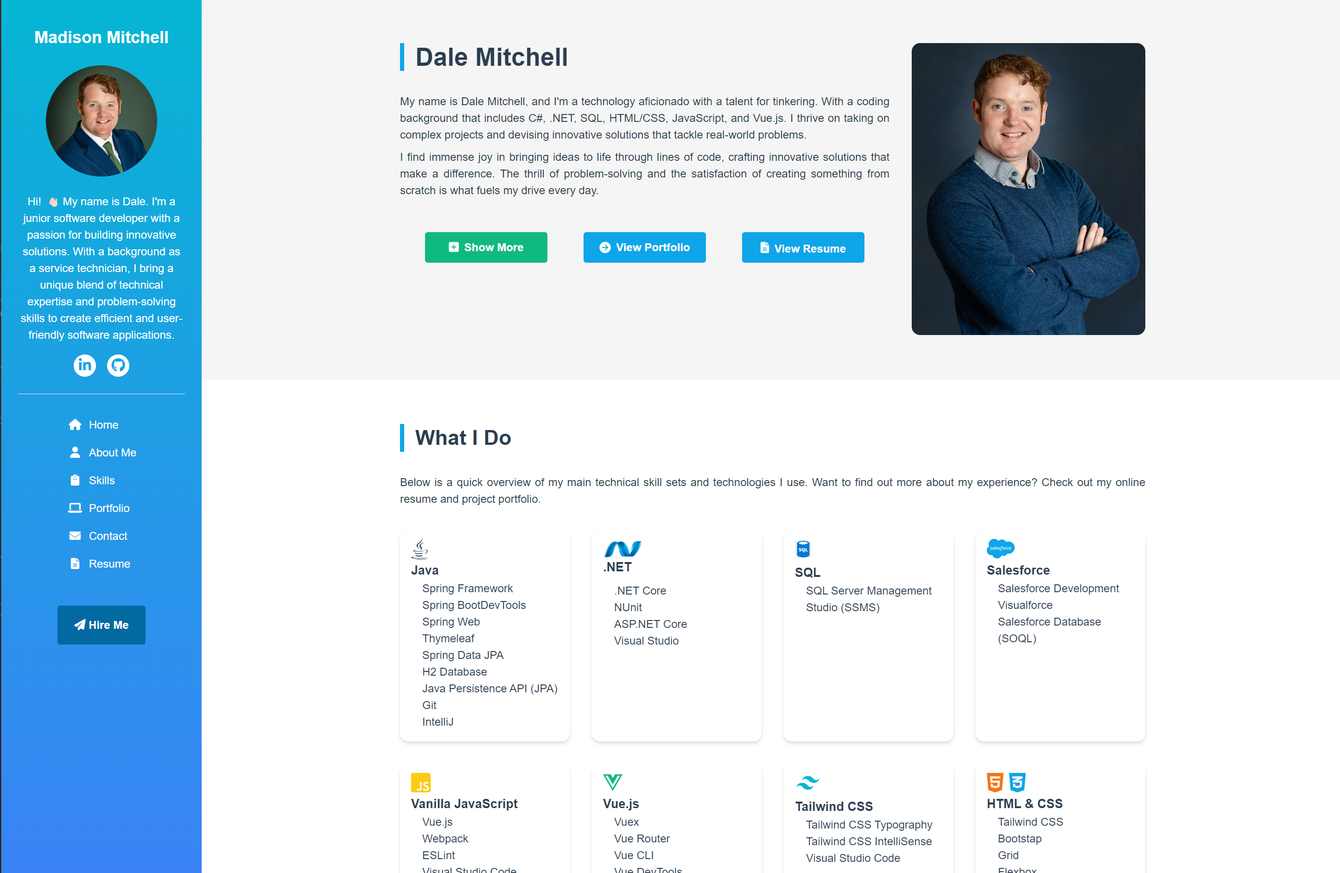
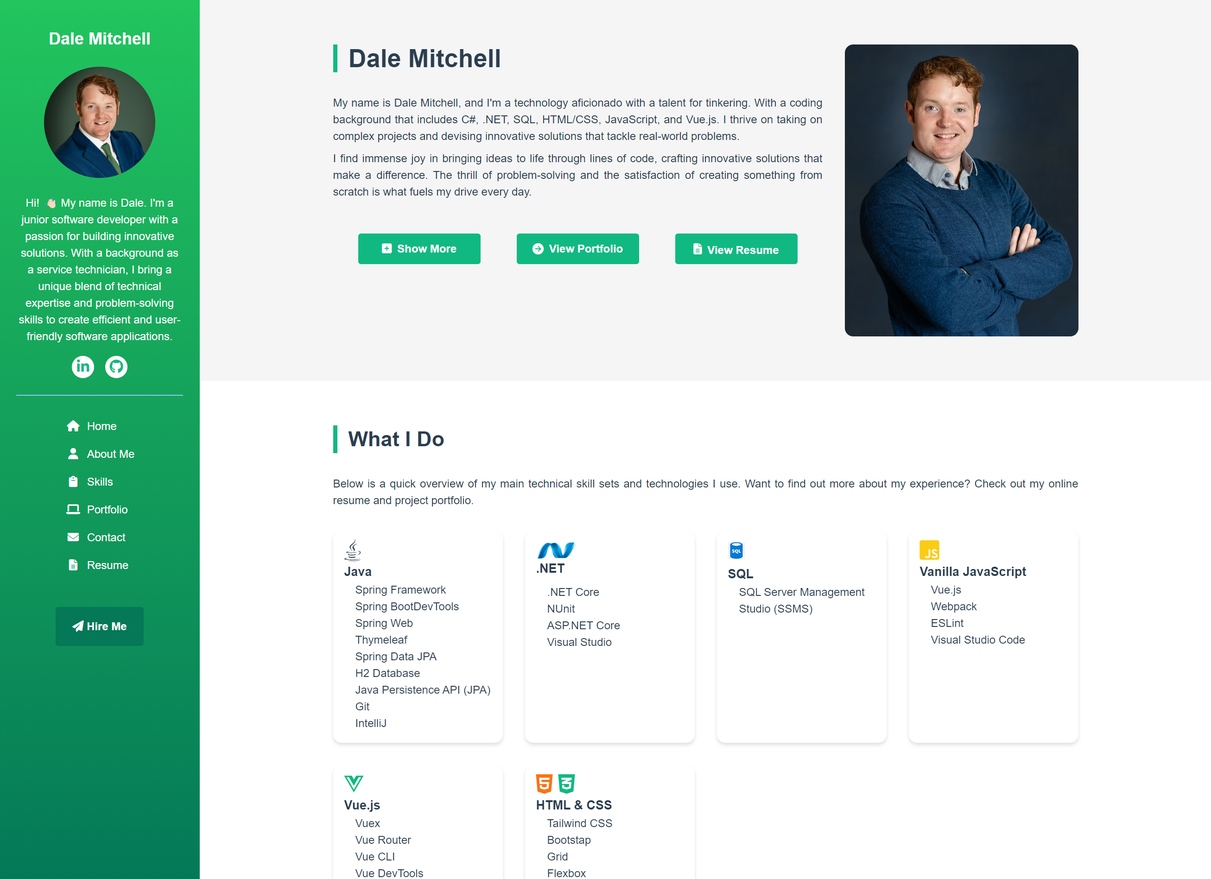
fixed colors and new profile picture

diff --git a/src/components/Contact.vue b/src/components/Contact.vue
@@ -3,7 +3,7 @@
         <div class="contact m-auto isolate p-16 sm:p-10 lg:p-16">
             <div class="max-w-2xl">
                 <div class="flex">
-                    <div class="inline-block w-1.5 h-10 bg-sky-500 mr-4"></div>
+                    <div class="inline-block w-1.5 h-10 bg-emerald-500 mr-4"></div>
                     <h2 class="text-3xl text-left font-bold tracking-tight text-gray-900 sm:text-3xl">Get in Touch</h2>
                 </div>
                 <p class="text-left mt-2 text-lg leading-8 text-gray-600">Level up your software game. Reach out and let's make it happen!</p>
@@ -19,7 +19,7 @@
                                 name="first-name"
                                 id="first-name"
                                 autocomplete="given-name"
-                                class="block w-full rounded-md border-0 px-3.5 py-2 text-gray-900 shadow-sm ring-1 ring-inset ring-gray-300 placeholder:text-gray-400 focus:ring-2 focus:ring-inset focus:ring-indigo-600 sm:text-sm sm:leading-6"
+                                class="block w-full rounded-md border-0 px-3.5 py-2 text-gray-900 shadow-sm ring-1 ring-inset ring-gray-300 placeholder:text-gray-400 focus:ring-2 focus:ring-inset focus:ring-emerald-600 sm:text-sm sm:leading-6"
                                 required />
                         </div>
                     </div>
@@ -32,7 +32,7 @@
                                 name="last-name"
                                 id="last-name"
                                 autocomplete="family-name"
-                                class="block w-full rounded-md border-0 px-3.5 py-2 text-gray-900 shadow-sm ring-1 ring-inset ring-gray-300 placeholder:text-gray-400 focus:ring-2 focus:ring-inset focus:ring-indigo-600 sm:text-sm sm:leading-6"
+                                class="block w-full rounded-md border-0 px-3.5 py-2 text-gray-900 shadow-sm ring-1 ring-inset ring-gray-300 placeholder:text-gray-400 focus:ring-2 focus:ring-inset focus:ring-emerald-600 sm:text-sm sm:leading-6"
                                 required />
                         </div>
                     </div>
@@ -45,7 +45,7 @@
                                 name="company"
                                 id="company"
                                 autocomplete="organization"
-                                class="block w-full rounded-md border-0 px-3.5 py-2 text-gray-900 shadow-sm ring-1 ring-inset ring-gray-300 placeholder:text-gray-400 focus:ring-2 focus:ring-inset focus:ring-indigo-600 sm:text-sm sm:leading-6" />
+                                class="block w-full rounded-md border-0 px-3.5 py-2 text-gray-900 shadow-sm ring-1 ring-inset ring-gray-300 placeholder:text-gray-400 focus:ring-2 focus:ring-inset focus:ring-emerald-600 sm:text-sm sm:leading-6" />
                         </div>
                     </div>
                     <div class="sm:col-span-2">
@@ -58,7 +58,7 @@
                                 id="email"
                                 autocomplete="email"
                                 :class="{ 'ring-red-500': isInvalidEmail }"
-                                class="block w-full rounded-md border-0 px-3.5 py-2 text-gray-900 shadow-sm ring-1 ring-inset ring-gray-300 placeholder:text-gray-400 focus:ring-2 focus:ring-inset focus:ring-indigo-600 sm:text-sm sm:leading-6"
+                                class="block w-full rounded-md border-0 px-3.5 py-2 text-gray-900 shadow-sm ring-1 ring-inset ring-gray-300 placeholder:text-gray-400 focus:ring-2 focus:ring-inset focus:ring-emerald-600 sm:text-sm sm:leading-6"
                                 required />
                         </div>
                         <div v-if="isInvalidEmail" class="text-red-500 mt-1">Invalid email format</div>
@@ -68,7 +68,7 @@
                         <div class="relative mt-2.5">
                             <div class="absolute inset-y-0 left-0 flex items-center">
                                 <label for="country" class="sr-only">Country</label>
-                                <select id="country" name="country" class="h-full rounded-md border-0 bg-transparent bg-none py-0 pl-4 pr-9 text-gray-400 appearance-none focus:ring-2 focus:ring-inset focus:ring-indigo-600 sm:text-sm" required>
+                                <select id="country" name="country" class="h-full rounded-md border-0 bg-transparent bg-none py-0 pl-4 pr-9 text-gray-400 appearance-none focus:ring-2 focus:ring-inset focus:ring-emerald-900 sm:text-sm" required>
                                     <option>US</option>
                                     <option>CA</option>
                                     <option>EU</option>
@@ -81,7 +81,7 @@
                                 name="phone-number"
                                 id="phone-number"
                                 autocomplete="tel"
-                                class="block w-full rounded-md border-0 px-3.5 py-2 pl-24 text-gray-900 shadow-sm ring-1 ring-inset ring-gray-300 placeholder:text-gray-400 focus:ring-2 focus:ring-inset focus:ring-indigo-600 sm:text-sm sm:leading-6"
+                                class="block w-full rounded-md border-0 px-3.5 py-2 pl-24 text-gray-900 shadow-sm ring-1 ring-inset ring-gray-300 placeholder:text-gray-400 focus:ring-2 focus:ring-inset focus:ring-emerald-900 sm:text-sm sm:leading-6"
                                 required />
                         </div>
                     </div>
@@ -93,7 +93,7 @@
                                 name="message"
                                 id="message"
                                 rows="4"
-                                class="block w-full rounded-md border-0 px-3.5 py-2 text-gray-900 shadow-sm ring-1 ring-inset ring-gray-300 placeholder:text-gray-400 focus:ring-2 focus:ring-inset focus:ring-indigo-600 sm:text-sm sm:leading-6"
+                                class="block w-full rounded-md border-0 px-3.5 py-2 text-gray-900 shadow-sm ring-1 ring-inset ring-gray-300 placeholder:text-gray-400 focus:ring-2 focus:ring-inset focus:ring-emerald-900 sm:text-sm sm:leading-6"
                                 required />
                         </div>
                     </div>
@@ -103,12 +103,12 @@
                         @click="sendEmail"
                         type="submit"
                         :disabled="!isFormValid || isButtonDisabled"
-                        :class="{ 'bg-neutral-500': isButtonDisabled, 'bg-gradient-to-r from-cyan-500 hover:from-cyan-600 to-blue-500 hover:bg-indigo-500 hover:to-blue-600': !isButtonDisabled }"
-                        class="email-btn block w-full rounded-md px-3.5 py-2.5 text-center text-lg font-semibold text-white shadow-sm focus-visible:outline focus-visible:outline-2 focus-visible:outline-offset-2 focus-visible:outline-indigo-600">
+                        :class="{ 'bg-neutral-500': isButtonDisabled, 'bg-gradient-to-r from-green-500 hover:from-green-900 to-emerald-500 hover:bg-emerald-500 hover:to-emerald-900': !isButtonDisabled }"
+                        class="email-btn block w-full rounded-md px-3.5 py-2.5 text-center text-lg font-semibold text-white shadow-sm focus-visible:outline focus-visible:outline-2 focus-visible:outline-offset-2 focus-visible:outline-emerald-900">
                         Let's talk
                     </button>
                 </div>
-                <div v-if="showSuccessMessage" class="text-green-600 mt-4">Email sent successfully!</div>
+                <div v-if="showSuccessMessage" class="text-green-900 mt-4">Email sent successfully!</div>
             </form>
         </div>
     </div>

diff --git a/src/store/index.js b/src/store/index.js
@@ -53,10 +53,10 @@ export default createStore({
         url: 'https://github.com/DaleJMitchell/Agave-Atlas',
         img: 'AgaveAtlas.gif'
       },
-      mysteryEducator: {
+      VendoMatic800: {
         title: 'VendoMatic800',
         paragraph: [
-          'The vending machine dispenses four kinds of cute stuffed animals: ducks, penguins, cats, and ponies.Each vending machine item has a Name and a Price.'
+          'The vending machine dispenses four kinds of cute stuffed animals: ducks, penguins, cats, and ponies.Each vending machine item has a name and a price.'
         ],
         description: [
           'Welcome to our Cute Stuffed Animal Vending Machine! Our vending machine offers a delightful selection of four kinds of cute stuffed animals: ducks, penguins, cats, and ponies. Each item is carefully priced and displayed for your convenience.Here\'s what you can do with our vending machine: Display Vending Machine Items: Get an overview of all the adorable stuffed animals available, including their slot identifiers, purchase prices, and remaining quantities. If an item is sold out, it will be clearly indicated. Purchase: Begin the purchasing process and embark on an exciting journey to bring home your favorite cuddly companion. Throughout the process, you will have the option to feed money, select a product, and finish the transaction. Our vending machine will guide you every step of the way. Exit: Should you decide not to make a purchase or wish to leave the vending machine, simply select this option to exit the program. Please note that our vending machine is automatically restocked each time the application runs, ensuring a fresh supply of fluffy friends. Our machine records the date, time, and details of each transaction, including the deposited amount, spent amount, new balance, and any change given. Each sales report is uniquely named to include the date and time. We strive to make your experience with our Cute Stuffed Animal Vending Machine as enjoyable and secure as possible. Feel free to explore the various options and bring home a cuddly companion that will warm your heart. If you have any questions or need assistance, please don\'t hesitate to reach out to our friendly staff. Happy shopping!',
@@ -68,38 +68,37 @@ export default createStore({
       
     },
     workExp: {
-      progressive: {
-        name: 'Progressive',
-        dates: 'May 2022 - Present',
-        jobTitle: 'IT Apps Programmer',
-        location: 'Hybrid | Mayfield Village',
+      whiteMechanical: {
+        name: 'White Mechanical',
+        dates: 'Jan 2017 - Jan 2023',
+        jobTitle: 'Commercial HVAC Repair Journeyman',
+        location: 'Alliance Ohio',
         bullets: [
-          'Administer and maintain the Salesforce Org, ensuring its optimal performance and stability',
-          'Perform Salesforce development tasks, including customization, configuration, and coding, to support business requirements',
-          'Collaborate with cross-functional teams to gather and analyze project requirements for Salesforce implementation',
-          'Assist in the creation and management of Salesforce projects, ensuring alignment with business goals and best practices',
-          'Stay up-to-date with Salesforce updates, features, and industry trends to recommend improvements and drive innovation within the Salesforce ecosystem',
+          'Tested, troubleshot, and repaired systems by identifying malfunctions, and replacing parts/components. Read diagrams, specifications, drawings, blueprints, and schematics',
+          'Participated in numerous professional development activities to update knowledge and increase service/repair capabilities',
+          'Traveled extensively throughout the assigned region to assess customer service needs; repaired/installed appropriate components', 
+          'Replaced electrical motors, compressors, and HVAC systems up to [208/230, 277, 480] volts',
+          'Installed auxiliary components to heating-cooling systems, including expansion valves, air ducts, pipes, blowers, dampers, and flues',
         ]
       },
-      apple: {
-        name: 'Apple',
-        dates: 'July 2014 - May 2022',
-        jobTitle: 'Team Manager Apprentice',
-        location: 'Remote',
+      spectrum: {
+        name: 'Spectrum',
+        dates: 'May 2012 - Jan 2017',
+        jobTitle: 'Cable Install & Repair Technician',
+        location: 'Canton Ohio',
         bullets: [
-          'Able to multitask within 5+ applications/systems, while communicating with co-workers and 3+ customers at once',
+          'Traveled to customer sites to inspect the equipment, discuss their concerns, independently diagnose service issues, and construct innovative solutions',
           'Able to analyze and resolve a variety of complex technical issues',
           'Excellent, effective communication skills using written and verbal skills',
           'Strong time management skills with the ability to work on multiple projects on a deadline',
           'Able to adopt to different communication styles',
-          'Average 92% Customer Satisfaction Score, 10% above the role average',
-          'Supports 10 Team Leads responsible for 35+ Advisors each with the transition to remote Customer Support from Retail',
+          'Cable/Phone/Internet installations and disconnects; configured systems to standard, educated users about company products/equipment, and juggled scheduling demand',
         ]
       },
       bestBuy: {
         name: 'Best Buy',
-        dates: 'February 2012 - July 2014',
-        jobTitle: 'Sales Lead | Apple Expert',
+        dates: 'November 2006 - May 2012',
+        jobTitle: 'Front End Lead | Apple Expert',
         location: 'North Canton, OH',
       }
     }

diff --git a/src/components/NavBar.vue b/src/components/NavBar.vue
@@ -1,5 +1,5 @@
 <template>
-  <div class="navBar bg-gradient-to-b from-cyan-500 to-blue-500 h-screen flex flex-col w-72">
+  <div class="navBar bg-gradient-to-b from-green-500 to-emerald-700 h-screen flex flex-col w-72">
     <router-link to="/"><h1 class="mt-10 text-2xl text-center font-bold text-white">Dale Mitchell</h1></router-link>
     <div class="bio flex flex-col justify-center px-6">
       <img class="headshot rounded-full w-8/12 my-6 mx-auto" src="../assets/headshot.jpg" alt="" />
@@ -8,10 +8,10 @@
 
     <div class="social-icons mt-4 flex justify-center">
       <div class="flex flex-col justify-center items-center bg-white rounded-full w-8 h-8 mr-2">
-        <a href="https://www.linkedin.com/in/dale-j-mitchell/"><i class="fa-brands fa-linkedin-in fa-lg text-sky-500"></i></a>
+        <a href="https://www.linkedin.com/in/dale-j-mitchell/"><i class="fa-brands fa-linkedin-in fa-lg text-emerald-500"></i></a>
       </div>
       <div class="flex flex-col justify-center items-center bg-white rounded-full w-8 h-8 ml-2">
-        <a href="https://github.com/DaleJMitchell"><i class="fa-brands fa-github fa-lg text-sky-500"></i></a>
+        <a href="https://github.com/DaleJMitchell"><i class="fa-brands fa-github fa-lg text-emerald-500"></i></a>
       </div>
     </div>
 
@@ -19,15 +19,15 @@
 
     <nav class="flex flex-col items-center w-full">
       <ul class="text-left text-white font-medium">
-        <li class="flex items-center p-2 hover:text-sky-700 active:text-sky-900"><a href="/#home"><i class="fa-solid fa-house text-center w-6"></i><span class="ml-2 mt-1">Home</span></a></li>
-        <li class="flex items-center p-2 hover:text-sky-700 active:text-sky-900"><a href="/#about-me-container"><i class="fa-solid fa-user text-center w-6"></i><span class="ml-2 mt-1">About Me</span></a></li>
-        <li class="flex items-center p-2 hover:text-sky-700 active:text-sky-900"><a href="/#skills-container"><i class="fa-solid fa-clipboard text-center w-6"></i><span class="ml-2 mt-1">Skills</span></a></li>
-        <li class="flex items-center p-2 hover:text-sky-700 active:text-sky-900"><a href="/#portfolio-container"><i class="fa-solid fa-laptop text-center w-6"></i><span class="ml-2 mt-1">Portfolio</span></a></li>
-        <li class="flex items-center p-2 hover:text-sky-700 active:text-sky-900"><a href="/#contact-container"><i class="fa-solid fa-envelope text-center w-6"></i><span class="ml-2 mt-1">Contact</span></a></li>
-        <li class="flex items-center p-2 hover:text-sky-700 active:text-sky-900"><router-link to="resume#top-of-page"><i class="fa-solid fa-file-lines text-center w-6"></i><span class="ml-2 mt-1">Resume</span></router-link></li>
+        <li class="flex items-center p-2 hover:text-emerald-900 active:text-emerald-900"><a href="/#home"><i class="fa-solid fa-house text-center w-6"></i><span class="ml-2 mt-1">Home</span></a></li>
+        <li class="flex items-center p-2 hover:text-emerald-900 active:text-emerald-900"><a href="/#about-me-container"><i class="fa-solid fa-user text-center w-6"></i><span class="ml-2 mt-1">About Me</span></a></li>
+        <li class="flex items-center p-2 hover:text-emerald-900 active:text-emerald-900"><a href="/#skills-container"><i class="fa-solid fa-clipboard text-center w-6"></i><span class="ml-2 mt-1">Skills</span></a></li>
+        <li class="flex items-center p-2 hover:text-emerald-900 active:text-emerald-900"><a href="/#portfolio-container"><i class="fa-solid fa-laptop text-center w-6"></i><span class="ml-2 mt-1">Portfolio</span></a></li>
+        <li class="flex items-center p-2 hover:text-emerald-900 active:text-emerald-900"><a href="/#contact-container"><i class="fa-solid fa-envelope text-center w-6"></i><span class="ml-2 mt-1">Contact</span></a></li>
+        <li class="flex items-center p-2 hover:text-emerald-900 active:text-emerald-900"><router-link to="resume#top-of-page"><i class="fa-solid fa-file-lines text-center w-6"></i><span class="ml-2 mt-1">Resume</span></router-link></li>
       </ul>
 
-      <button class="bg-sky-700 hover:bg-sky-800 text-white font-bold mt-10 py-4 px-6 rounded"><i class="fa-solid fa-paper-plane text-white"></i> Hire Me</button>
+      <button class="bg-emerald-700 hover:bg-emerald-800 text-white font-bold mt-10 py-4 px-6 rounded"><i class="fa-solid fa-paper-plane text-white"></i> Hire Me</button>
     </nav>
   </div>
 </template>

diff --git a/src/components/ResumeHeader.vue b/src/components/ResumeHeader.vue
@@ -2,17 +2,17 @@
     <div>
         <header class="resume-header flex justify-between">
             <div class="right-box flex flex-col justify-center">
-                <h1 class="text-4xl text-left tracking-wider font-black text-sky-500">DALE MITCHELL</h1>
+                <h1 class="text-4xl text-left tracking-wider font-black text-emerald-500">DALE MITCHELL</h1>
                 <h5 class="text-md text-left">Full Stack Software Engineer</h5>
             </div>
             <div class="left-box flex">
                 <div class="vertical-bar inline-block max-h-max bg-neutral-300 mr-4"></div>
                 <div class="contact-info flex flex-col justify-center">
-                    <a class="hover:text-sky-600" href="tel:3308146599"><h5 class="text-md text-left"><i class="fa-solid fa-phone text-neutral-400 w-6"></i>(330) 814-6599</h5></a>
-                    <a class="hover:text-sky-600" href="mailto:dalejmitchell@icloud.com"><h5 class="text-md text-left"><i class="fa-solid fa-envelope text-neutral-400 w-6"></i>dalejmitchell@icloud.com</h5></a>
-                    <a class="hover:text-sky-600" href="http://dalejmitchell.github.io" target="_blank"><h5 class="text-md text-left"><i class="fa-solid fa-globe text-neutral-400 w-6"></i>dalejmitchell.github.io</h5></a>
-                    <a class="hover:text-sky-600" href="https://www.linkedin.com/in/dale-j-mitchell/" target="_blank"><h5 class="text-md text-left"><i class="fa-brands fa-linkedin-in text-neutral-400 w-6"></i>linkedin.com/in/dale-j-mitchell/</h5></a>
-                    <a class="hover:text-sky-600" href="https://github.com/DaleJMitchell" target="_blank"><h5 class="text-md text-left"><i class="fa-brands fa-github text-neutral-400 w-6"></i>github.com/DaleJMitchell</h5></a>
+                    <a class="hover:text-emerald-600" href="tel:3308146599"><h5 class="text-md text-left"><i class="fa-solid fa-phone text-neutral-400 w-6"></i>(330) 814-6599</h5></a>
+                    <a class="hover:text-emerald-600" href="mailto:dalejmitchell@icloud.com"><h5 class="text-md text-left"><i class="fa-solid fa-envelope text-neutral-400 w-6"></i>dalejmitchell@icloud.com</h5></a>
+                    <a class="hover:text-emerald-600" href="http://dalejmitchell.github.io" target="_blank"><h5 class="text-md text-left"><i class="fa-solid fa-globe text-neutral-400 w-6"></i>dalejmitchell.github.io</h5></a>
+                    <a class="hover:text-emerald-600" href="https://www.linkedin.com/in/dale-j-mitchell/" target="_blank"><h5 class="text-md text-left"><i class="fa-brands fa-linkedin-in text-neutral-400 w-6"></i>linkedin.com/in/dale-j-mitchell/</h5></a>
+                    <a class="hover:text-emerald-600" href="https://github.com/DaleJMitchell" target="_blank"><h5 class="text-md text-left"><i class="fa-brands fa-github text-neutral-400 w-6"></i>github.com/DaleJMitchell</h5></a>
                     <h5 class="text-md text-left"><i class="fa-solid fa-location-dot text-neutral-400 w-6"></i>Uniontown, OH, USA</h5>
                 </div>
             </div>

diff --git a/src/components/AboutMe.vue b/src/components/AboutMe.vue
@@ -3,7 +3,7 @@
     <div class="about-me grid lg:grid-cols-2 xl:grid-cols-3 gap-8 p-16 m-auto">
       <div class="lg:col-span-1 xl:col-span-2 text-justify">
         <header class="flex mb-8">
-          <div class="inline-block w-1.5 h-10 bg-sky-500 mr-4"></div>
+          <div class="inline-block w-1.5 h-10 bg-emerald-500 mr-4"></div>
           <h1 class="flex flex-col text-4xl font-bold">Dale Mitchell</h1>
         </header>
         <p class="mb-2">My name is Dale Mitchell, and I'm a technology aficionado with a talent for tinkering. With a coding background that includes C#, .NET, SQL, HTML/CSS, JavaScript, and Vue.js. I thrive on taking on complex projects and devising innovative solutions that tackle real-world problems.</p>
@@ -17,9 +17,9 @@
         <div class="flex justify-evenly mt-12">
             <!-- button class="paragraphs-btn flex justify-center items-center py-2 px-4 bg-emerald-500 rounded text-white text-center font-semibold w-44" @click="toggleParagraphs"><span v-html="hideParagraphs ? '<i class=&quot;fa-solid fa-square-plus&quot;></i><span class=&quot;ml-2&quot;>Show More</span>' : '<i class=&quot;fa-solid fa-square-minus&quot;></i><span class=&quot;ml-2&quot;>Show Less</span>'"></span></button -->
             <button class="show-btn flex justify-center items-center lg:mr-2 py-2 px-4 rounded text-white text-center font-semibold w-44" :class="{ 'bg-emerald-500 hover:bg-emerald-700': hideParagraphs, 'bg-amber-500 hover:bg-amber-700': !hideParagraphs }" @click="toggleParagraphs"><span v-html="hideParagraphs ? '<i class=&quot;fa-solid fa-square-plus&quot;></i><span class=&quot;ml-2&quot;>Show More</span>' : '<i class=&quot;fa-solid fa-square-minus&quot;></i><span class=&quot;ml-2&quot;>Show Less</span>'"></span></button>
-            <button class="portfolio-btn flex justify-center items-center lg:mx-2 py-2 px-4 bg-sky-500 hover:bg-sky-700 rounded text-white text-center font-semibold w-44" href="#portfolio-container"><i class="fa-solid fa-circle-arrow-right"></i><span class="ml-2">View Portfolio</span></button>
+            <button class="portfolio-btn flex justify-center items-center lg:mx-2 py-2 px-4 bg-emerald-500 hover:bg-emerald-700 rounded text-white text-center font-semibold w-44" href="#portfolio-container"><i class="fa-solid fa-circle-arrow-right"></i><span class="ml-2">View Portfolio</span></button>
             <router-link to="/resume">
-              <button class="resume-btn flex justify-center items-center lg:ml-2 py-2 px-4 bg-sky-500 hover:bg-sky-700 rounded text-white text-center font-semibold w-44" href=""><i class="fa-solid fa-file-lines"></i><span class="ml-2 mt-1">View Resume</span></button>
+              <button class="resume-btn flex justify-center items-center lg:ml-2 py-2 px-4 bg-emerald-500 hover:bg-emerald-700 rounded text-white text-center font-semibold w-44" href=""><i class="fa-solid fa-file-lines"></i><span class="ml-2 mt-1">View Resume</span></button>
             </router-link>
         </div>
       </div>

diff --git a/src/components/ResumeMain.vue b/src/components/ResumeMain.vue
@@ -14,8 +14,8 @@
                 <div class="right-box">
                     <div class="skills-section">
                         <header class="skills-header flex">
-                            <div class="inline-block w-1.5 h-7 bg-sky-500 mr-4"></div>
-                            <h1 class="flex flex-col text-sky-500 text-2xl font-bold tracking-wider">SKILLS</h1>
+                            <div class="inline-block w-1.5 h-7 bg-emerald-500 mr-4"></div>
+                            <h1 class="flex flex-col text-emerald-500 text-2xl font-bold tracking-wider">SKILLS</h1>
                         </header>
                         <h3 class="text-left tracking-wide text-xl font-black mt-4">Technical</h3>
                         <ul class="tech-skills text-left text-md tracking-wide">
@@ -28,8 +28,8 @@
                     </div>
                     <div class="education-section">
                         <header class="education-header flex mt-12">
-                            <div class="inline-block w-1.5 h-7 bg-sky-500 mr-4"></div>
-                            <h1 class="flex flex-col text-sky-500 text-2xl font-bold tracking-wider">EDUCATION</h1>
+                            <div class="inline-block w-1.5 h-7 bg-emerald-500 mr-4"></div>
+                            <h1 class="flex flex-col text-emerald-500 text-2xl font-bold tracking-wider">EDUCATION</h1>
                         </header>
                         <h3 class="text-left tracking-wide text-xl font-black mt-6">Certificates</h3>
                         <ul class="education text-left text-md">
@@ -41,8 +41,8 @@
                     </div>
                     <div class="interests-section">
                         <header class="education-header flex mt-12">
-                            <div class="inline-block w-1.5 h-7 bg-sky-500 mr-4"></div>
-                            <h1 class="flex flex-col text-sky-500 text-2xl font-bold tracking-wider">INTERESTS</h1>
+                            <div class="inline-block w-1.5 h-7 bg-emerald-500 mr-4"></div>
+                            <h1 class="flex flex-col text-emerald-500 text-2xl font-bold tracking-wider">INTERESTS</h1>
                         </header>
                         <ul class="interests text-left text-md mt-6">
                             <li class="py-0 5" v-for="interest in interests" :key="interest">{{ interest }}</li>

diff --git a/src/components/ResumeBio.vue b/src/components/ResumeBio.vue
@@ -2,7 +2,7 @@
     <div>
         <div class="resume-bio flex">
             <img class="headshot rounded-full w-36 h-36 mr-10 my-auto" src="../assets/headshot.jpg" alt="">
-            <p class="text-justify text-md tracking-tight">Results-oriented Software Developer with over a year of experience at Progressive Insurance, specializing in Salesforce development. Skilled in C#, .NET, Java, Javascript, Vue.js, SQL, HTML/CSS, Agile (Scrum) and more. Proven track record of delivering high-quality solutions, translating business requirements into technical implementations. Strong problem-solving abilities, effective communication skills, thrives in fast-paced, Agile environments, actively contributing to Scrum methodologies and meeting project deadlines. Committed to staying current with emerging technologies and dedicated to creating robust, scalable software solutions that drive business growth and enhance user experiences.</p>
+            <p class="text-justify text-md tracking-tight">Results-driven Software Developer with a comprehensive skill set acquired through a rigorous software development bootcamp and hands-on project experience. Proficient in C#, .NET, Java, JavaScript, Vue.js, HTML/CSS, SQL, and various development methodologies including Test Driven Development (TDD) and Agile (Scrum). I am skilled in Object-Oriented Programming (OOP), JSON, REST APIs, responsive design, relational databases, and version control with Git and GitHub. Combining a strong technical foundation with skills in troubleshooting, customer service, and problem-solving, I am poised to contribute to innovative projects and deliver high-quality software solutions. I'm looking for an opportunity to work for a company that is as passionate about development as I am.</p>
         </div>
         <div class="horizontal-bar bg-neutral-300 h-0.5 w-full mt-4 mb-8"></div>
     </div>

diff --git a/src/components/Portfolio.vue b/src/components/Portfolio.vue
@@ -3,13 +3,13 @@
 
             <div class="portfolio grid grid-cols-3 gap-8 p-16 text-justify m-auto">
                 <header class="flex col-span-3">
-                    <div class="inline-block w-1.5 h-10 bg-sky-500 mr-4"></div>
+                    <div class="inline-block w-1.5 h-10 bg-emerald-500 mr-4"></div>
                     <h1 class="flex flex-col justify-around text-3xl font-bold">Portfolio</h1>
                 </header>
                 <p class="col-span-3">Below is a quick overview of my main technical skill sets and technologies I use. Want to find out more about my experience? Check out my online resume and project portfolio.</p>
                 <div class="portfolio-grid grid grid-cols-3 col-span-4 gap-8">
 
-                    <a class="hover:text-sky-500 focus:text-sky-700" :href="proj.url" v-for="proj in projects" :key="proj">
+                    <a class="hover:text-emerald-500 focus:text-emerald-700" :href="proj.url" v-for="proj in projects" :key="proj">
                         <div :class="'proj-' + proj.title.toLowerCase().replace(/\s/g, '-')" class="bg-white drop-shadow-md rounded-xl p-4 hover:drop-shadow-xl">
                             <h1 class="font-bold text-lg">{{ proj.title }}</h1>
                             <img :class="'proj-img-' + proj.title.toLowerCase().replace(/\s/g, '-')" class="drop-shadow-md rounded" :src="getImageUrl(proj.img)" alt="" ref="gifImage">

diff --git a/src/components/ResumeFooter.vue b/src/components/ResumeFooter.vue
@@ -1,9 +1,9 @@
 <template>
   <div>
         <footer class="flex justify-evenly text-sm">
-            <a class="hover:text-sky-600" href="http://github.com/dalejmitchell" target="_blank"><h5><i class="fa-brands fa-github fa-lg text-sky-500 w-6"></i>github.com/dalejmitchell</h5></a>
-              <a class="hover:text-sky-600" href="http://www.linkedin.com/in/dale-j-mitchell" target="_blank"><h5><i class="fa-brands fa-linkedin-in fa-lg text-sky-500 w-6"></i>linkedin.com/in/dale-j-mitchell</h5></a>
-              <a class="hover:text-sky-600" href="http://dalejmitchell.github.io" target="_blank"><h5><i class="fa-solid fa-globe fa-lg text-sky-500 w-6"></i>dalejmitchell.github.io</h5></a>
+            <a class="hover:text-emerald-600" href="http://github.com/dalejmitchell" target="_blank"><h5><i class="fa-brands fa-github fa-lg text-emerald-500 w-6"></i>github.com/dalejmitchell</h5></a>
+              <a class="hover:text-emerald-600" href="http://www.linkedin.com/in/dale-j-mitchell" target="_blank"><h5><i class="fa-brands fa-linkedin-in fa-lg text-emerald-500 w-6"></i>linkedin.com/in/dale-j-mitchell</h5></a>
+              <a class="hover:text-emerald-600" href="http://dalejmitchell.github.io" target="_blank"><h5><i class="fa-solid fa-globe fa-lg text-emerald-500 w-6"></i>dalejmitchell.github.io</h5></a>
         </footer>
   </div>
 </template>

diff --git a/src/components/Skills.vue b/src/components/Skills.vue
@@ -3,7 +3,7 @@
 
         <div class="skills grid grid-cols-4 gap-8 p-16 text-justify m-auto">
             <header class="flex col-span-4">
-                <div class="inline-block w-1.5 h-10 bg-sky-500 mr-4"></div>
+                <div class="inline-block w-1.5 h-10 bg-emerald-500 mr-4"></div>
                 <h1 class="flex flex-col justify-around text-3xl font-bold">What I Do</h1>
             </header>
             <p class="col-span-4">Below is a quick overview of my main technical skill sets and technologies I use. Want to find out more about my experience? Check out my online resume and project portfolio.</p>
@@ -65,7 +65,7 @@
                 </div>
                 
                 <div class="skills-html-css bg-white drop-shadow-md rounded-xl p-4">
-                    <i class="fa-brands fa-html5 fa-2xl mr-1 text-orange-500 mb-4"></i><i class="fa-brands fa-css3-alt fa-2xl ml-1 text-sky-500"></i>
+                    <i class="fa-brands fa-html5 fa-2xl mr-1 text-orange-500 mb-4"></i><i class="fa-brands fa-css3-alt fa-2xl ml-1 text-emerald-500"></i>
                     <h1 class="font-bold text-lg">HTML & CSS</h1>
                     <ul class="ml-4 text-left">
                         <li>Tailwind CSS</li>

diff --git a/src/components/ResumeProjects.vue b/src/components/ResumeProjects.vue
@@ -1,12 +1,12 @@
 <template>
     <div>
         <header class="flex mt-20 mb-8">
-            <div class="inline-block w-1.5 h-7 bg-sky-500 mr-4"></div>
-            <h1 class="flex flex-col text-sky-500 text-2xl font-bold tracking-wider">PROJECTS</h1>
+            <div class="inline-block w-1.5 h-7 bg-emerald-500 mr-4"></div>
+            <h1 class="flex flex-col text-emerald-500 text-2xl font-bold tracking-wider">PROJECTS</h1>
         </header>
         <div :class="proj" v-for="proj in projects" :key="proj">
             <div :class="'header-' + proj.title.toLowerCase().replace(/\s/g, '-')" class="flex justify-between mt-4">
-                <a class="hover:text-sky-700" :href="proj.url" target="_blank">
+                <a class="hover:text-emerald-700" :href="proj.url" target="_blank">
                     <h3 class="text-left tracking-wide text-xl font-black">{{ proj.title }}</h3>
                 </a>
                 <h4 class="flex flex-col justify-center text-neutral-400 text-sm">{{ proj.date }}</h4>

diff --git a/src/components/ResumeWorkExp.vue b/src/components/ResumeWorkExp.vue
@@ -1,8 +1,8 @@
 <template>
     <div>
         <header class="flex mb-8">
-            <div class="inline-block w-1.5 h-7 bg-sky-500 mr-4"></div>
-            <h1 class="flex flex-col text-sky-500 text-2xl font-bold tracking-wider">WORK EXPERIENCES</h1>
+            <div class="inline-block w-1.5 h-7 bg-emerald-500 mr-4"></div>
+            <h1 class="flex flex-col text-emerald-500 text-2xl font-bold tracking-wider">WORK EXPERIENCES</h1>
         </header>
         <div :class="job.name.replace(/\s/g, '') + '-details'" v-for="job in workExp" :key="job">
             <div :class="'header-' + job.name.replace(/\s/g, '')" class="flex justify-between mt-4">
